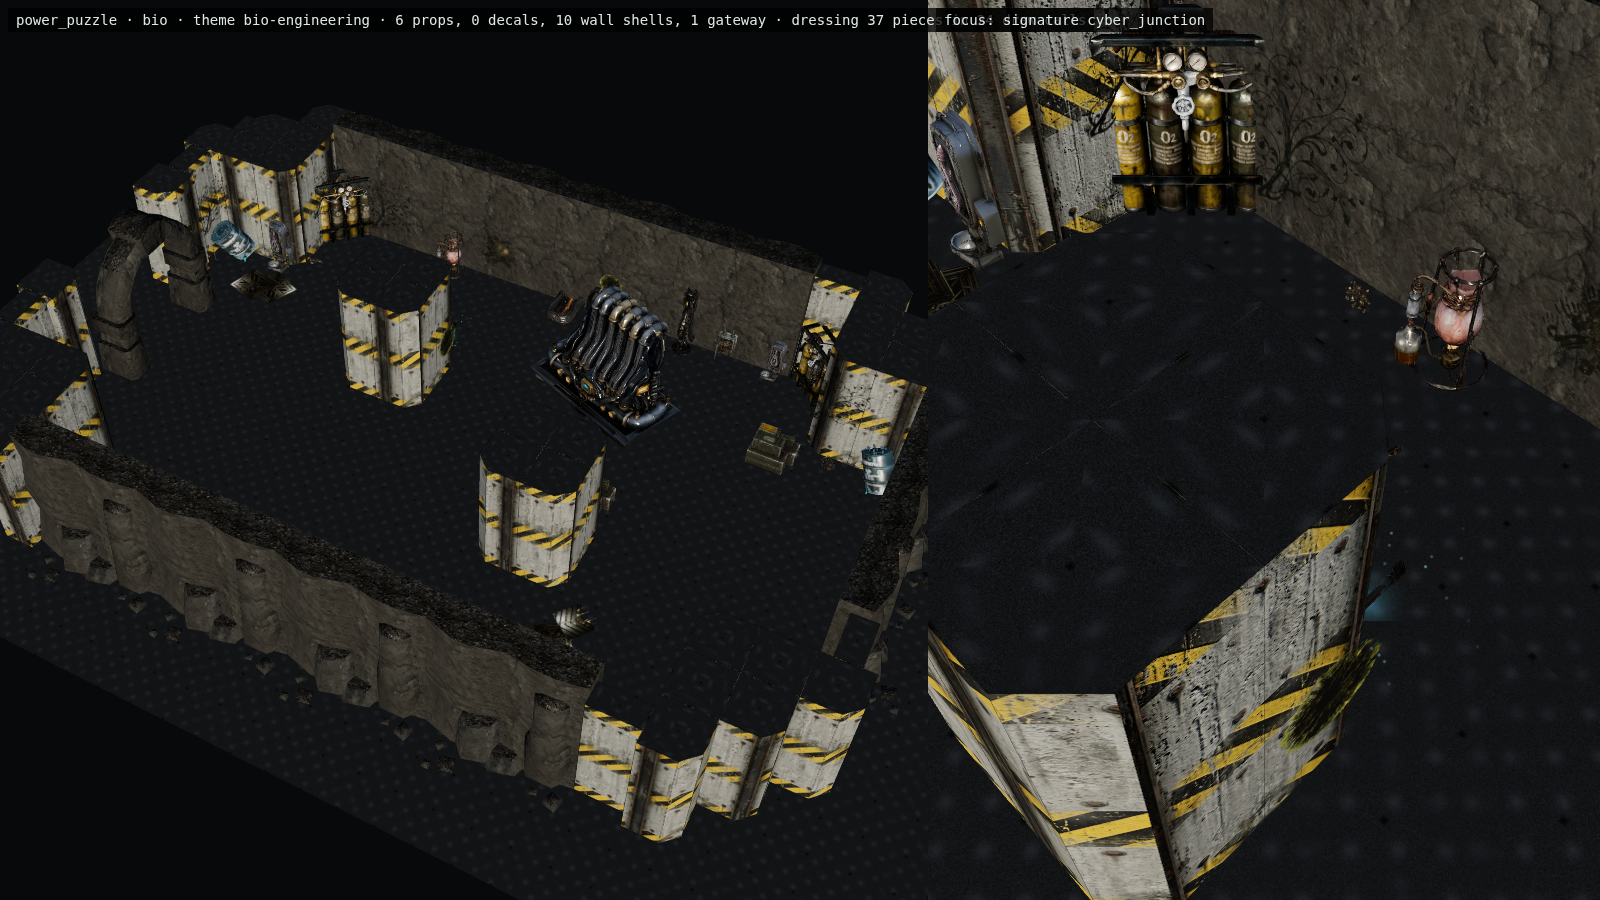
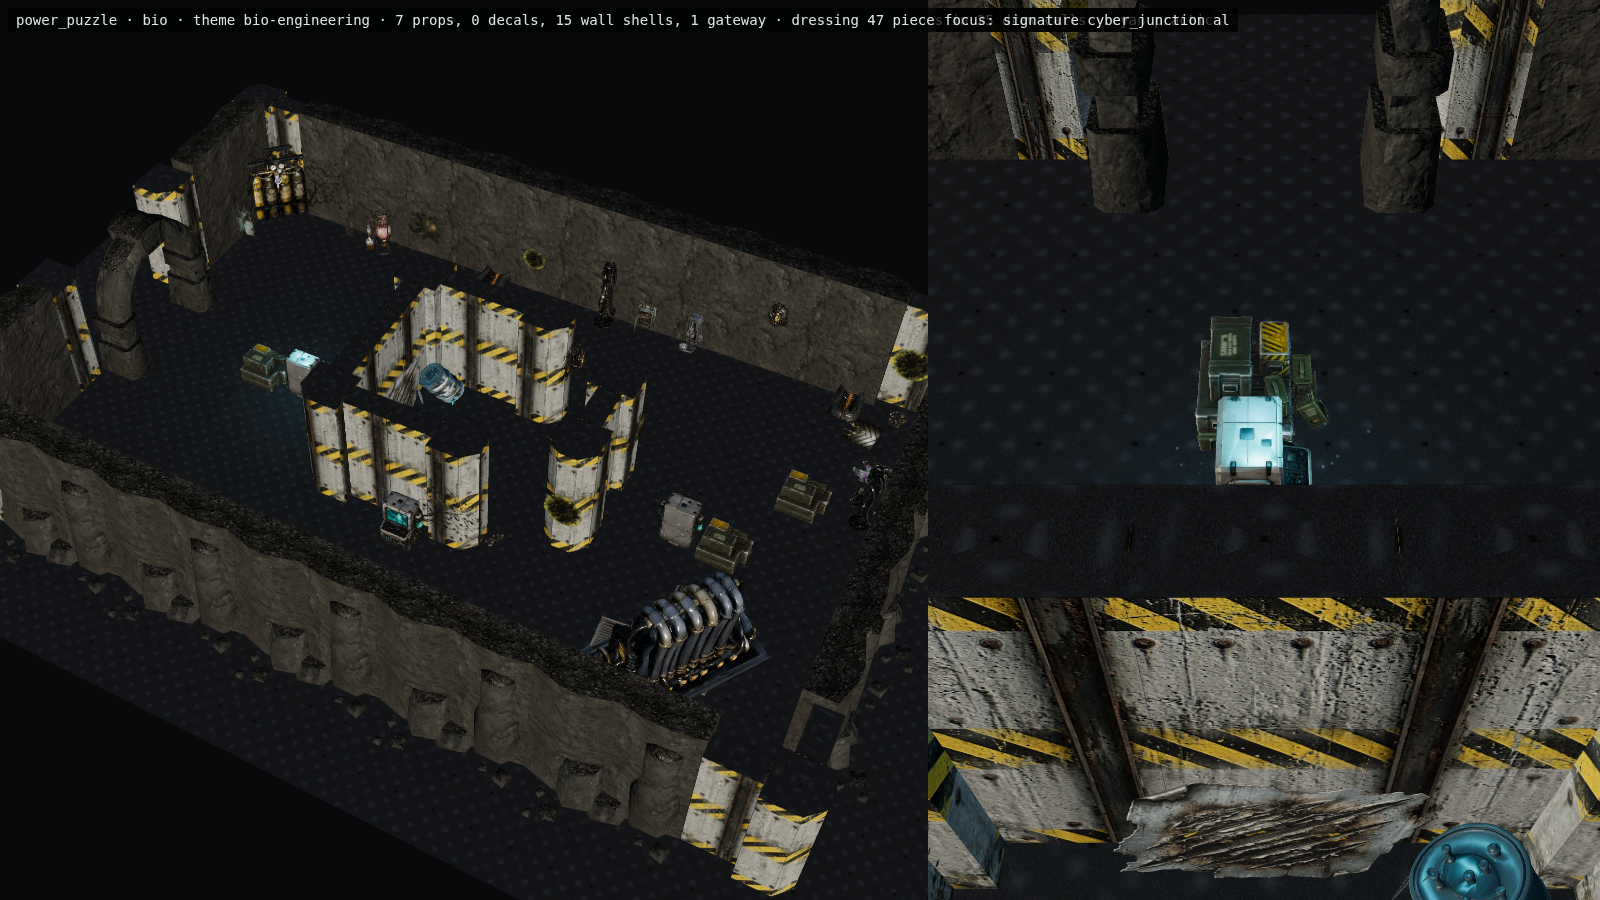
feat(levels): turn power room into a relay circuit

diff --git a/src/data/roomBuilds.js b/src/data/roomBuilds.js
@@ -266,16 +266,22 @@ export const ROOM_BUILD_CATALOG = Object.freeze([
         family: 'puzzle',
         themeStyle: 'substation',
         partitionThickness: 0.5,
-        // Routing nodes are floor-standing interactive props, not
-        // collision geometry — the player must be able to stand on the
-        // cell to interact with them. Substation relay pylons and chamfers frame the space.
-        pattern: rectRoomPattern(17, 11, [
-            { x: 0, y: 0, w: 2, h: 2 },
-            { x: 15, y: 0, w: 2, h: 2 },
-            { x: 0, y: 9, w: 2, h: 2 },
-            { x: 15, y: 9, w: 2, h: 2 },
-            { x: 5, y: 3, w: 2, h: 2 },
-            { x: 10, y: 6, w: 2, h: 2 }
+        // P2 spatial-puzzle proof: node A teaches in the west lobe, then a
+        // broken relay enclosure splits into upper/lower feeds and rejoins
+        // at node B in the east. Relays are floor-standing props; solved
+        // state may gate reward use, never the permanently open routes.
+        pattern: authoredRoomPattern([
+            '.................',
+            '.................',
+            '.................',
+            '......####.......',
+            '......#....#.....',
+            '......#....#.....',
+            '......#....#.....',
+            '......####.......',
+            '.................',
+            '.................',
+            '.................'
         ]),
         sockets: [{ id: 'entry', side: 'w', width: 3, required: true }],
         rotationPolicy: 'cardinal',
@@ -284,23 +290,35 @@ export const ROOM_BUILD_CATALOG = Object.freeze([
         roles: ['challenge', 'questDestination'],
         structuralAnchors: [],
         interactionAnchors: [
-            { id: 'routing_node_a', type: 'prop_cyber_junction', x: 5, y: 2 },
-            { id: 'routing_node_b', type: 'prop_cyber_junction', x: 10, y: 5 }
+            { id: 'routing_node_a', type: 'prop_cyber_junction', x: 4, y: 5 },
+            { id: 'routing_node_b', type: 'prop_cyber_junction', x: 13, y: 5 },
+            { id: 'routing_node_c', type: 'prop_cyber_junction', x: 8, y: 2 },
+            { id: 'routing_node_d', type: 'prop_cyber_junction', x: 8, y: 8 }
         ],
         signatureAnchorId: 'routing_node_a',
         compassAnchors: { approach: 'entry', objective: 'routing_node_a' },
-        coverZones: [{ x: 5, y: 3, w: 2, h: 2 }, { x: 10, y: 6, w: 2, h: 2 }],
+        coverZones: [
+            { x: 6, y: 3, w: 4, h: 1 },
+            { x: 6, y: 3, w: 1, h: 5 },
+            { x: 11, y: 4, w: 1, h: 3 },
+            { x: 6, y: 7, w: 4, h: 1 }
+        ],
         encounterZones: [],
-        rewardAnchors: [{ id: 'puzzle_reward', type: 'prop_bunker_supplies', x: 14, y: 2 }],
+        rewardAnchors: [{ id: 'puzzle_reward', type: 'prop_bunker_supplies', x: 15, y: 3 }],
         loreAnchors: [],
         hazardZones: [],
-        quietZones: [{ x: 0, y: 0, w: 17, h: 11 }],
+        quietZones: [
+            { x: 1, y: 3, w: 5, h: 5 },
+            { x: 6, y: 0, w: 5, h: 3 },
+            { x: 6, y: 8, w: 5, h: 3 },
+            { x: 12, y: 3, w: 5, h: 5 }
+        ],
         safeZone: true,
         containmentBounds: { minX: 0, minY: 0, maxX: 16, maxY: 10 },
         presentationVariants: ['off', 'powered', 'incorrect', 'solved'],
         stateVariants: ['dormant', 'questActive', 'resolved'],
         adjacency: { prefers: [], forbids: ['camp', 'reward_vault'] },
-        contentBudget: { structuralLarge: 0, activityZones: 2, pickupsMin: 1, enemiesMax: 0 }
+        contentBudget: { structuralLarge: 0, activityZones: 4, pickupsMin: 1, enemiesMax: 0 }
     }),
     Object.freeze({
         id: 'trap_vault',

diff --git a/src/roomBuilds.test.js b/src/roomBuilds.test.js
@@ -219,6 +219,45 @@ describe('ROOM_BUILD_CATALOG', () => {
         expect(build.rewardAnchors[0]).toMatchObject({ id: 'schematic_cache', x: 3, y: 5 });
     });
 
+    it('turns the power room into a teach, branch and rejoin relay circuit', () => {
+        const build = ROOM_BUILD_CATALOG.find((entry) => entry.id === 'power_puzzle');
+        expect(build.pattern).toEqual([
+            '.................',
+            '.................',
+            '.................',
+            '......####.......',
+            '......#....#.....',
+            '......#....#.....',
+            '......#....#.....',
+            '......####.......',
+            '.................',
+            '.................',
+            '.................'
+        ]);
+        const approach = computeApproachPoint(build);
+        const tutorial = { x: 4, y: 5 };
+        const final = { x: 13, y: 5 };
+        const upper = { x: 8, y: 2 };
+        const lower = { x: 8, y: 8 };
+        const upperRoute = shortestPatternPath(build.pattern, approach, tutorial)
+            + shortestPatternPath(build.pattern, tutorial, upper)
+            + shortestPatternPath(build.pattern, upper, final);
+        const lowerRoute = shortestPatternPath(build.pattern, approach, tutorial)
+            + shortestPatternPath(build.pattern, tutorial, lower)
+            + shortestPatternPath(build.pattern, lower, final);
+        expect(approach).toEqual({ x: 2, y: 5 });
+        expect(upperRoute).toBe(lowerRoute);
+        expect(upperRoute).toBeLessThan(Infinity);
+        expect(build.signatureAnchorId).toBe('routing_node_a');
+        expect(build.interactionAnchors).toEqual(expect.arrayContaining([
+            expect.objectContaining({ id: 'routing_node_a', x: 4, y: 5 }),
+            expect.objectContaining({ id: 'routing_node_b', x: 13, y: 5 }),
+            expect.objectContaining({ id: 'routing_node_c', x: 8, y: 2 }),
+            expect.objectContaining({ id: 'routing_node_d', x: 8, y: 8 })
+        ]));
+        expect(build.rewardAnchors[0]).toMatchObject({ id: 'puzzle_reward', x: 15, y: 3 });
+    });
+
     it.each(ROOM_BUILD_CATALOG.map((build) => [build.id, build]))('%s is internally valid', (_, build) => {
         expect(validateRoomBuild(build)).toEqual([]);
     });

diff --git a/tests/e2e/probes/p2-power-puzzle-gameplay-camera.spec.js b/tests/e2e/probes/p2-power-puzzle-gameplay-camera.spec.js
@@ -1,0 +1,19 @@
+import { test, expect } from '@playwright/test';
+
+// P2 spatial-puzzle proof: the tutorial relay, paired branch relays, eastern
+// rejoin and reward must survive every gameplay-camera rotation.
+for (let rotation = 0; rotation < 4; rotation += 1) {
+    test(`P2 power puzzle game camera — R${rotation}`, async ({ page }) => {
+        await page.setViewportSize({ width: 1600, height: 900 });
+        await page.goto(`/tests/e2e/fixtures/furnished-room-showroom.html?build=power_puzzle&biome=active&review=gameplay&rotation=${rotation}`);
+        await page.waitForFunction(() => window.__showroom?.ready === true, null, { timeout: 90_000 });
+        const result = await page.evaluate(() => window.__showroom);
+        expect(result.reviewMode).toBe(true);
+        expect(result.rotation).toBe(rotation);
+        expect(result.cutawayCells).toBeGreaterThan(0);
+        expect(result.props + result.decals).toBeGreaterThan(0);
+        await page.screenshot({
+            path: `docs/reports/assets/furnished-rooms/p2-power_puzzle-game-camera-r${rotation}.png`
+        });
+    });
+}

diff --git a/src/anchorPracticalLight.js b/src/anchorPracticalLight.js
@@ -18,7 +18,7 @@ export const ANCHOR_LIGHT_PALETTE = Object.freeze({
 
 // First match wins; cyan before green so a "biomech oxygen" piece reads cold.
 const PALETTE_RULES = Object.freeze([
-    { palette: 'cyan', match: /oxygen|coolant|cryo|o2_|frost|icey|thermal|water_still|medical_bed|tesla_coil|fabricator/ },
+    { palette: 'cyan', match: /oxygen|coolant|cryo|o2_|frost|icey|thermal|water_still|medical_bed|tesla_coil|fabricator|cyber_junction/ },
     { palette: 'amber', match: /lectern|votive|shrine|reliquary|saint|liturgical|candle|barrel_heater|flood_lamp|pheromone_censer|scent_distiller|warmth_hearth|checkpoint_post|wayfinding_totem|seismic_drill|devotion_tree|meat_smoking_rack|pipe_organ_heat_exchanger|ammo_crate/ },
     { palette: 'green', match: /biomech|spore|fungal|hive|flesh|umbilical|alien|incubator|mycelium/ }
 ]);

diff --git a/src/anchorPracticalLight.test.js b/src/anchorPracticalLight.test.js
@@ -13,6 +13,7 @@ describe('anchor practical light (lived-in world M4)', () => {
         expect(anchorPaletteFor('prop_medical_bed')).toBe('cyan');
         expect(anchorPaletteFor('prop_tesla_coil_node')).toBe('cyan');
         expect(anchorPaletteFor('prop_fabricator_workstation')).toBe('cyan');
+        expect(anchorPaletteFor('prop_cyber_junction')).toBe('cyan');
         expect(anchorPaletteFor('prop_pipe_organ_heat_exchanger')).toBe('amber');
         expect(anchorPaletteFor('prop_ammo_crate_stack')).toBe('amber');
         expect(anchorPaletteFor('life_barrel_heater')).toBe('amber');

diff --git a/docs/planning/n64-architectural-level-design-overhaul-2026-10-10.md b/docs/planning/n64-architectural-level-design-overhaul-2026-10-10.md
@@ -704,7 +704,23 @@ and non-colliding. Presentation/state variants may change screens, lighting, sta
 particles, never bay access or wall cells. This completes the six-room P1 flat-topology set. The
 next authored-room lane begins P2 with `power_puzzle`.
 
-### 9.6.2 Authored-geometry persistence gate
+### 9.6.2 Lane A P2: broken relay enclosure
+
+`power_puzzle` is the first P2 spatial proof. The west lobe isolates the preserved
+`routing_node_a` as a cyan tutorial focal, then a broken rectangular bus enclosure forces equal
+upper and lower relay routes before they rejoin at preserved final node `routing_node_b` and the
+offset east reward. New `routing_node_c` and `routing_node_d` anchors make both branch stations
+authored rather than random dressing. Exact-pattern and route tests prove the equal branches; four
+gameplay-camera/cutaway captures live at
+`docs/reports/assets/furnished-rooms/p2-power_puzzle-game-camera-r*.png`.
+
+Capability correction: four positioned relays do not constitute a sequence controller. They are
+independent generic interactions today, and `puzzle_reward` remains immediately searchable. A
+future A → C/D → B state machine must own validation, reset, cable-light propagation, final calm
+state, and reward availability. All relay, spark, and cable animation remains non-colliding and the
+two routes stay permanently open. Next P2 candidate: `trap_vault`.
+
+### 9.6.3 Authored-geometry persistence gate
 
 The existing `ROOM_BUILD_VERSION` is only exported; it is not serialized or compared. Neither
 campaign `interiorVersion`, macro `layoutVersion`, nor `WORLD_PLAN_VERSION` pins room-pattern data.
@@ -1061,6 +1077,10 @@ chunk mounts.
   S-partition. The short fabrication route and longer private care route reconnect north; the
   preserved medical-bed objective owns cyan hierarchy. Exact geometry, both loop connections, and
   all four camera rotations pass; future articulation remains local and non-colliding.
+- 2026-10-11: Lane A began P2 by replacing the power room's unrelated block islands with a broken
+  relay enclosure. Four authored nodes now teach, branch, and rejoin spatially under a cyan focal;
+  equal-route and four-camera proofs pass. Ordered relay state and reward locking remain explicit
+  future controller work.
 - 2026-10-10: Round 2 done (`1b0fce7c`): chasm landmarks plus tactical-map glyphs. Criteria 1,
   3, 4 and 5 met; criterion 2 not met as written, with the reason and the map-based answer in
   §9.10.

diff --git a/docs/planning/world-design-doctrine-n64-lessons-2026-10-10.md b/docs/planning/world-design-doctrine-n64-lessons-2026-10-10.md
@@ -553,9 +553,23 @@ transformations while clearing coordinate-local geometry state. Do not repurpose
 
 ### P2 — complete the authored catalog
 
-Puzzle, trap, cache, radar, vent, hull bay, crypt, cloister, and astrogation rooms. Six signature
-blueprint prototypes landed concurrently with this pass; treat them as comparison greyboxes and
-do not expand the catalog further until P0A and P0B read in the default gameplay camera.
+Puzzle, trap, cache, radar, vent, hull bay, crypt, cloister, and astrogation rooms. The six
+signature blueprint prototypes remain comparison greyboxes until each receives the same exact-route
+and gameplay-camera proof used by P0/P1.
+
+`power_puzzle` is the first P2 spatial proof. A cyan tutorial relay sits alone in the west lobe;
+a broken rectangular bus then forces equal upper and lower feeds before both routes rejoin at the
+east final relay and offset reward. Existing `routing_node_a` and `routing_node_b` identities are
+preserved, while `routing_node_c` and `routing_node_d` complete the paired branch vocabulary. Tests
+pin the exact enclosure, equal branch routes, all four anchors, and cyan signature practical. Four
+rotation/cutaway captures live at
+`docs/reports/assets/furnished-rooms/p2-power_puzzle-game-camera-r*.png`.
+
+This is not yet an ordered puzzle. All four relays are currently independent generic interactions,
+and the supply cache remains searchable without solving them. A future controller must own
+A → C/D → B activation, incorrect-input reset, cable-light propagation, resolved calm state, and
+reward availability. Relay/contact animation and arcs stay local and non-colliding; no power state
+changes walls or traversal. The next P2 candidate is `trap_vault`.
 
 ## Greybox process
 
